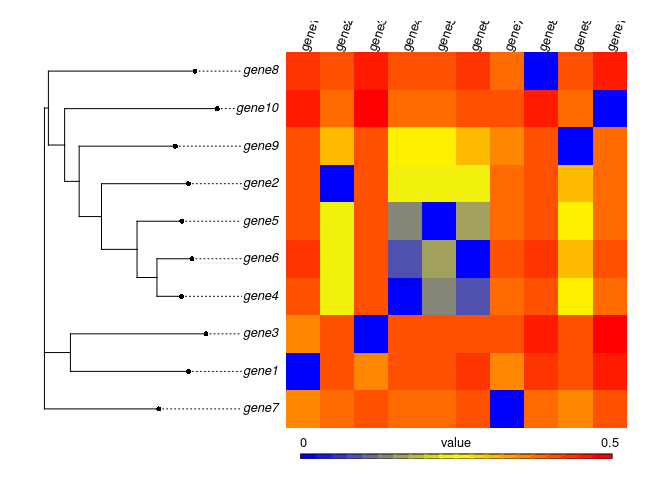
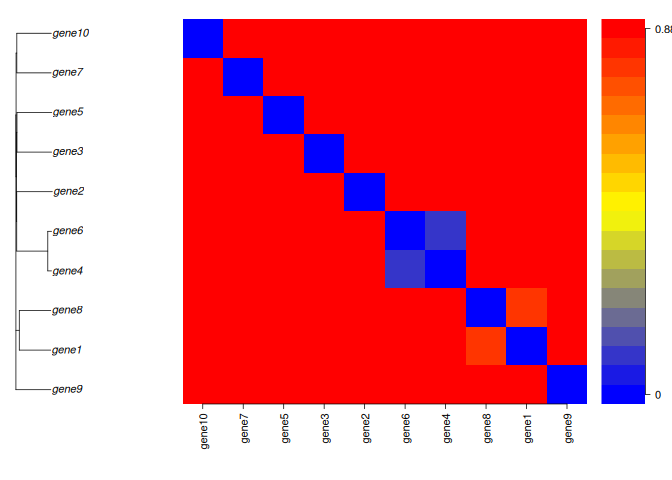
Bigger, legible default label sizes for distanceHeatmap/plotSimilarityMatrixWithTree
Both functions already had a user-accessible fontsizescale parameter (0 =
auto-computed from sequence count) -- only the auto-computed defaults
changed, roughly doubled at every tier:

- distanceHeatmap(): for Luigi's 6-sequence real data, the old default
  computed pheatmap fontsize = nrow*fontsizescale = 6*0.5 = 3pt, an
  illegibly tiny row/column label size. All five sequence-count tiers
  bumped (e.g. <20 sequences: 0.5 -> 1.2).
- plotSimilarityMatrixWithTree() (backed by baseTreeHeatmap()): same
  per-tier bump to its tip/column label size (<20 sequences: 0.7 -> 1.4).

Also fixed a real clipping bug found while tuning this: baseTreeHeatmap()'s
legend panel width scaled with fsize[3], but its *margin* (fixed "lines"
units, not scaled by cex.axis) didn't, so a bigger legend font still got its
range label (e.g. "0.08") clipped at the device edge. Margin now scales with
fsize[3] too.

Updated README.Rmd/README.md's distanceHeatmap()/plotSimilarityMatrixWithTree()
examples to drop their old small explicit fontsizescale overrides (the new
default is already good) and documented the parameter inline; regenerated
the two example images. Updated Luigi_data/run_analysis.R the same way.

diff --git a/README.md b/README.md
@@ -290,8 +290,10 @@ knitr::include_graphics(paste0("Example_Out","/SeqAlignmentCircleWithNoLinks.png
 ## Draw Similarity distance matrix
 
 ``` r
-# The similarity matrix as a heatmap
-distanceHeatmap(DistTable,fontsizescale = 0.2)
+# The similarity matrix as a heatmap. fontsizescale controls the row/column
+# label size (0, the default, picks a size automatically based on the number
+# of sequences).
+distanceHeatmap(DistTable)
 ```
 
 <img src="man/figures/README-unnamed-chunk-11-1.png" width="100%" />
@@ -314,6 +316,7 @@ plotTreeWithGenes(SeqInfo,myClustalWAlignment,AnnoFile)
 
 ``` r
 #The phylogenetic tree in combine with simialrity matrix
+#fontsizescale controls the tip/label size the same way as above.
 
 plotSimilarityMatrixWithTree(SeqInfo,myClustalWAlignment)
 ```